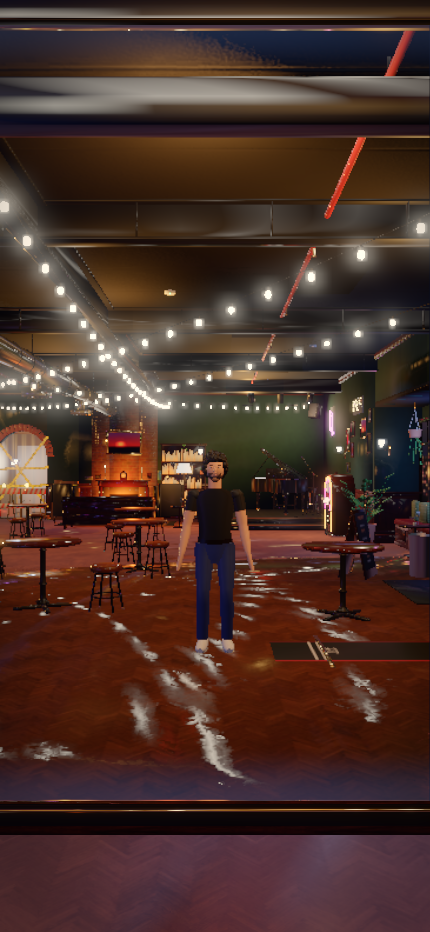
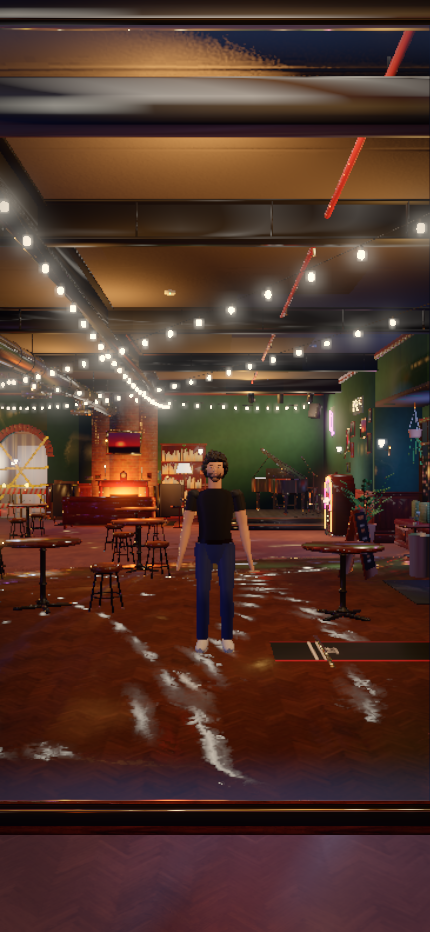
L1.3 Real material brightness: every material measured (tools/albedo_audit.py → assets/models/albedo.json), the ones darker or brighter than anything real moved into real ranges (new lighting); models keep their shapes for rays (922ec64)

diff --git a/README.md b/README.md
@@ -4,6 +4,32 @@ Every piece of work, newest first: what it is, its before/after pictures
 (left before, right after) and its numbers. Made by `tools/piece.mjs`;
 benchmarks by `tools/bench.mjs` (see `bench.jsonl`).
 
+## L1.3 Real material brightness: every material measured (tools/albedo_audit.py → assets/models/albedo.json), the ones darker or brighter than anything real moved into real ranges (new lighting); models keep their shapes for rays
+
+`922ec64` · 2026-10-22 18:40 · 17 files, +5003 −7 · tests: changed · headless frame 69.78 ms, 288 draws
+
+Phone check: Look at the bar top and the stage: wood grain, the mahogany's red and the green wall show clearly instead of near-black.
+
+![L1.3 door.jpg](L1.3/door.jpg)
+
+![L1.3 door-switch.jpg](L1.3/door-switch.jpg)
+
+![L1.3 mirror.jpg](L1.3/mirror.jpg)
+
+![L1.3 mirror-switch.jpg](L1.3/mirror-switch.jpg)
+
+![L1.3 bartop.jpg](L1.3/bartop.jpg)
+
+![L1.3 bartop-switch.jpg](L1.3/bartop-switch.jpg)
+
+![L1.3 backbar.jpg](L1.3/backbar.jpg)
+
+![L1.3 backbar-switch.jpg](L1.3/backbar-switch.jpg)
+
+![L1.3 piano.jpg](L1.3/piano.jpg)
+
+![L1.3 piano-switch.jpg](L1.3/piano-switch.jpg)
+
 ## L1.2 Real units: every lamp in lumens and Kelvin, true inverse-square light with no edge, white balance like eyes; world lights migrated (tools/world_migrate.mjs)
 
 `1975523` · 2026-10-22 18:25 · 23 files, +440 −93 · tests: changed · headless frame 76.03 ms, 288 draws
